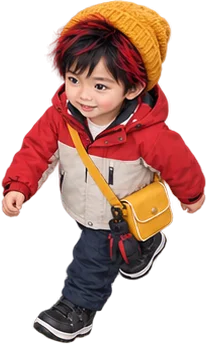
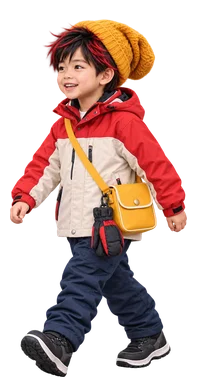
fix: correct C001 diagonal walk camera angle

diff --git a/.claude/skills/sit-character-sprite/SKILL.md b/.claude/skills/sit-character-sprite/SKILL.md
@@ -76,12 +76,14 @@ Sit by Me の4人（と子供3人、不良など人物）の絵を、生成 → 
 
 ## 7. 歩き（4方向 x 3コマ）
 
-- 4行x3列のグリッドで生成する（上下左右または斜め4方向のいずれか4方向 × 歩き3コマ）。方向名は `down,left,right,up,downleft,downright,upleft,upright`。カメラの鉛直下向き角は80°以上85°以下とする。車椅子はハンドリムをこぐ3コマ。
+- 4行x3列のグリッドで生成する（上下左右または斜め4方向のいずれか4方向 × 歩き3コマ）。方向名は `down,left,right,up,downleft,downright,upleft,upright`。カメラ角度は採用済み同年齢の正面・横・背面フレームに固定し、一般化した俯角の数値だけで決めない。車椅子はハンドリムをこぐ3コマ。
 - **車椅子の歩行周期は各行ごとに3コマ全部を検品する。** 手位置・肘・肩・スポークにコマ間の進行が見えること。3コマ目を一律に「手を離す回復位相」と決めつけない。採用済みの同方向歩行セットがある場合、その3コマの手の接触/離脱・位置を各フレームの正本参照にする。参照と違う動きを新しく足さない。
 - 正面・背面はリムが重なって手位置が読みにくい。カメラは既定の俯角（80–85°、標準82°）を保ち、車輪の外側面が見える正面/背面の3/4ビューを指定する。必要なら方向ごとに3コマの横一列で生成し、他の方向との競合を避ける。1方向ストリップは3コマの手・肘・スポーク差を独立検品してから他方向へ展開する。
 - 1コマ編集後は、同じalpha閾値（目安 alpha>=8/255）の可視bbox同士で縦横比を比較する。全キャンバスの透明余白や微小なalpha fringeを一方だけに含めない。縦横比が20%以上異なれば構図を再生成し、非等方拡大縮小で車輪・体の比率を変えて合わせない。採用済みセットと同じ共通キャンバスへ等方縮小し、中央・足元そろえで配置する。
 - 年齢段階をまとめて揃えるときは、採用済みの前段階12コマを4行×3列の参照シートに合成し、次段階マスターと同時に渡して同じ4行×3列を生成する。参照シートは各コマの比率を保ったまま正方セルへ収め、背景は透明、枠線や文字は加えない。行順・コマ順を固定し、各セルが一対一で対応するよう指定する。隣の行との連結を防ぐため、人物の上下に24px以上（410pxセルの場合）の透明ガターを参照シート内に確保し、生成promptにもセル間の透過を明記する。生成シートを行列で切り出す前に、向き・ポーズ位相・頭身・頭サイズ・車椅子寸法を全セルで確認する。`key_walk.py` が12体を分けられない場合、行境界で強制切断すると帽子や足が欠ける可能性があるため、その候補は失敗とする。透明ガター付きで独立した体を再生成する。対応が潰れる、同一性が崩れる、または寸法差が揃わない場合も失敗として記録し、従来の一コマずつの編集へ戻す。既存採用素材を置き換える場合は新セットの独立レビュー合格後に限る。
 - 同時生成＋一括切り出しを第一候補にするが、成功率は方向セットごとに異なる。直交4方向の4行×3列は、採用済み前段階12コマの正確な対応シートと対象年齢マスターを併用した場合に有効だった。一方、斜め4方向のグリッドは行の連結・位相の重複・色縁が繰り返し発生した。斜めグリッドを2回試して位相か分離に失敗したら、再度言い換えて続けず、同方向・同番号の正本1枚と対象年齢マスターだけを使う個別編集に切り替える。
+- 斜め方向で人物の頭頂・肩・靴の上面が増えて脚が短く見える場合、カメラが俯瞰側へずれている失敗として扱う。ユーザーが目線の高さを指定した場合、カメラを子どもの目線・水平0°・roll 0°・正投影に固定し、人物の向きだけを地面上で変える。各フレームの主参照は同年齢・同番号の採用済み正面または背面（down/up）とし、歩行位相・前後の足位置・最終枠内の身長を参照する。隣接する横向き（left/right）は向きの終点だけを参照させ、歩行位相は主参照から変えない。人物は地面上で垂直軸まわりに45°回転する。「down-left」等をカメラ移動の指示として解釈させない。失敗と判定した既存斜め画像は、ユーザーが修正対象として指示しない限り再生成の構図参照に使わない。
+- 斜め歩行の採用済みフレームに俯瞰角や色縁があると判明したら、正本を上書きする前に新候補を独立レビューする。ユーザーが直接透過生成を指定した場合は、最初から透明背景で生成し、`key_single.py ... alpha` で切り出す。緑/マゼンタのクロマキーへ切り替えない。
 - 成長段階の頭身・頭サイズを揃えるには、次段階マスターと前段階の採用済み12コマを同時に使い、行列とコマ対応を固定する。前段階シートは配置・歩行位相・人物/車椅子の相対寸法の正本、対象段階マスターは顔・年齢・衣装の正本として明確に役割を分ける。全セルを並べ、頭身・頭サイズ・車輪寸法・足元位置を世代間で比較してから切り出す。
 - 個別編集でも手の移動が出力で縮む場合、フレーム2/3の正本をそれぞれ直接参照し、手位置の差を最終共通キャンバス上のピクセルで測る。出力の見た目だけでなく、正本と同じ接触/離脱状態かを独立レビューで照合する。壮年right-downの調整では307×388出力上で約18px左・16px下の手位置差が有効だったが、数値を他方向へそのまま流用せず、方向別の正本位相に合わせる。3コマ目を全方向共通の「離す」位相にしない。
 - 斜め上などの全身が大きく見える視点では、帽子・靴・キャスターが出力端に触れる候補がある。共通キャンバスへ納める際は縦横比を変えずに等方縮小し、必要な候補は左右に各4%以上・上下に6%以上の透明余白を確保して中央・足元を整える。これは端接触がある候補への均一なフィットであり、すべてのフレームを一律に小さくする指定ではない。余白追加後も原寸で欠け・位置ずれを確認する。

diff --git a/verification/characters/tools/README.md b/verification/characters/tools/README.md
@@ -100,3 +100,7 @@ $T/key_walk.py <生成グリッド>/C002-elementary-wheelchair-walk.png assets/i
 小学生・中学生・青年・壮年の車椅子歩きは各8方向×3コマ（24枚）。同じ頭身と車椅子寸法を保つため、年齢段階を進めるときは前段階の採用済み12コマを同時生成の配置・位相参照として使い、対象年齢のマスターを顔・年齢・衣装の参照にする。4方向の4×3グリッドは対応が保てる場合に一括切り出しできる。斜め4方向のグリッドは行連結、位相重複、色縁が続いたため、2回失敗した段階で同方向・同コマの採用済み画像と対象年齢マスターを使う個別編集に切り替える。グリッドを切り出すときは `key_walk.py` が12体を正しく分離できることを確認し、失敗時に行境界で強制分割しない。
 
 個別編集後はフレーム1〜3を並べ、手の接触状態、ハンドリム位置、肘、スポーク位相を年齢段階間で照合する。移動距離は生成画像の縮小前サイズではなく、最終共通キャンバス上の可視座標で測る。全身が出力端に触れる斜め上方向などは、縦横比を変えずに等方縮小して共通キャンバスへ収め、左右4%以上・上下6%以上の透明余白を確認する。余白追加は端接触がある候補に限り、通常フレームのスケールを一律に変えない。
+
+### 通常歩行の斜め視点を直す
+
+斜めコマで帽子・肩・靴の上面が増え、脚が短く見える場合は俯瞰カメラの失敗として扱う。グリッド失敗後は1コマずつ生成し、ユーザーが直接透過生成を指定した場合は透明背景で生成して `key_single.py ... alpha` で切り出す。主参照は同年齢・同番号の採用済み正面/背面フレーム（歩行位相・足の前後・キャンバス占有率）、横向きフレームはyawの終点だけ、年齢マスターは人物と衣装だけを担う。カメラは子どもの目線、水平からの俯角0°、roll 0°、正投影に固定し、カメラを回さず人物の頭・肩・胴・腰を垂直軸まわりに45°回す。`down-left` 等をカメラの方向指定と混同させない。失敗した斜め画像を構図参照に戻さない。

diff --git a/docs/assets-policy.md b/docs/assets-policy.md
@@ -49,6 +49,7 @@
 - `{C003,C004}-{elementary,teen,adult}.webp`: シャー・ペー子の小学生・中学生・青年。壮年編では2人とも離脱するので壮年版は作らない。
 - フィールドの歩きは、上下左右の4方向に加え、**斜め4方向（左上・右上・左下・右下）も作る**（2026-10-14 kako-jun。斜めに歩く道があるため）。斜めの左向きは、右向きの反転でよい。C001幼稚園期の斜め歩き12枚を2026-10-23に追加。
 - フィールドの歩きは主人公（男＝オトン／女＝ナム）の分だけ作る（フィールドは先頭の主人公1人だけ表示。2026-10-14）。他の仲間の歩きは不要。
+- 斜め歩きのカメラは人物の向きから独立させる。俯瞰にずれた斜め画像は採用せず、ユーザー指定があれば子どもの目線・水平0°のカメラで、人物だけを地面上で45°回す（2026-10-24）。C001幼稚園斜め歩き12枚の再制作と、小学生通常歩行の斜め4方向追加をIssue #155で進行中。
 - フィールドの歩き: 幼稚園期（スノーボードウェア）は `assets/images/characters/Cxxx/walk/Cxxx-walk-{dir}-{1,2,3}.webp`（`dir`: `down`, `left`, `right`, `up`, `downleft`, `downright`, `upleft`, `upright`）、小学生は `Cxxx-elementary-walk-{dir}-{1,2,3}.webp`。戦闘ポーズの小学生版は `poses/Cxxx-elementary-{pose}.webp`。事故後の主人公（オトン/ナム）の車椅子歩きは小学生・中学生・青年・壮年それぞれ `Cxxx-{elementary,teen,adult,midlife}-wheelchair-walk-{dir}-{1,2,3}.webp`。C001の4段階は各8方向×3コマを揃えた。各方向3コマは仮の仕様で、name-name のフィールド移動の仕様が決まったら合わせる。
 - AI の定番見た目だった旧テンプレ絵（成長シート・車椅子シート・方向確認サンプル）は 2026-10-14 に撤去した。
 
